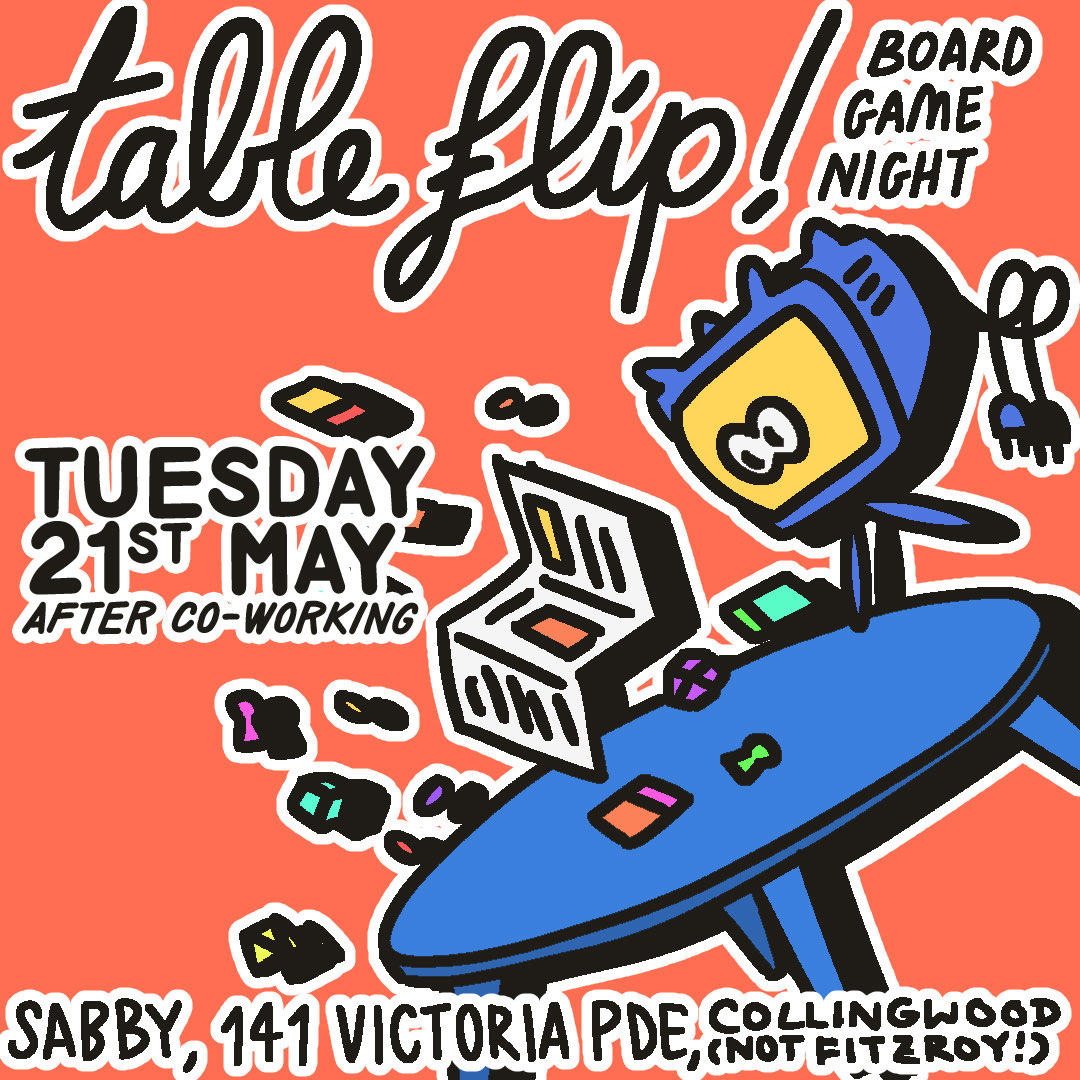
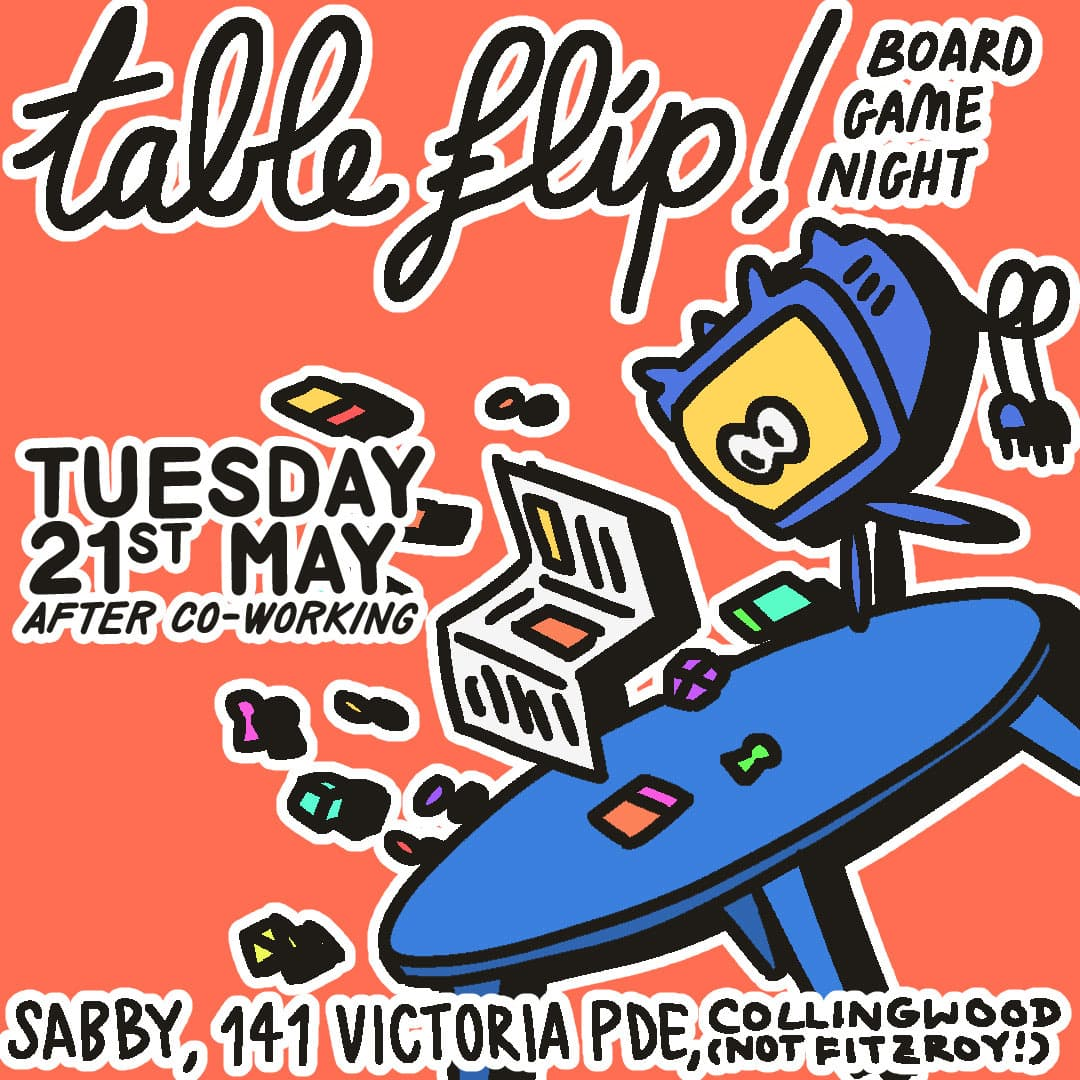
converted pngs to jpgs. compressed images.

diff --git a/src/events/2024/01-movie-night.md b/src/events/2024/01-movie-night.md
@@ -2,7 +2,7 @@
 title: "Sabby Movie Night: Tampopo (1985) and ramen"
 date: 2024-01-16
 tags: [movie-night]
-poster: "MovieNight-Jan2024.png"
+poster: "MovieNight-Jan2024.jpg"
 blurb: "A screening of Tampopo with a serving of Ramen."
 ---
 

diff --git a/src/events/2024/03-stretches.md b/src/events/2024/03-stretches.md
@@ -2,7 +2,7 @@
 title: Stretches for the Stationary
 date: 2024-03-05
 tags: [stretches]
-poster: "Stretches-March2024.png"
+poster: "Stretches-March2024.jpg"
 blurb: "A free workshop to help the deskbound."
 ---
 

diff --git a/src/events/2024/04-game-a-week.md b/src/events/2024/04-game-a-week.md
@@ -2,7 +2,7 @@
 title: Game-A-Week Play Party 2024
 date: 2024-04-13
 tags: [game-a-week]
-poster: "GAW-April2024.png"
+poster: "GAW-April2024.jpg"
 blurb: "A night of weird and wonderful local games."
 ---
 

diff --git a/src/events/2024/04-beyblade.md b/src/events/2024/04-beyblade.md
@@ -2,7 +2,7 @@
 title: Fake Beyblade Tournament
 date: 2024-04-16
 tags: [beyblade]
-poster: "Beyblade-April2024.png"
+poster: "Beyblade-April2024.jpg"
 blurb: "The Re-Revenge"
 ---
 

diff --git a/src/events/2023/12-NYE.md b/src/events/2023/12-NYE.md
@@ -2,7 +2,7 @@
 title: Sabby NYE
 date: 2023-12-31
 tags: [nye]
-poster: "NYE-Dec2023.png"
+poster: "NYE-Dec2023.jpg"
 blurb: "A screening of Tampopo with a serving of Ramen."
 ---
 
